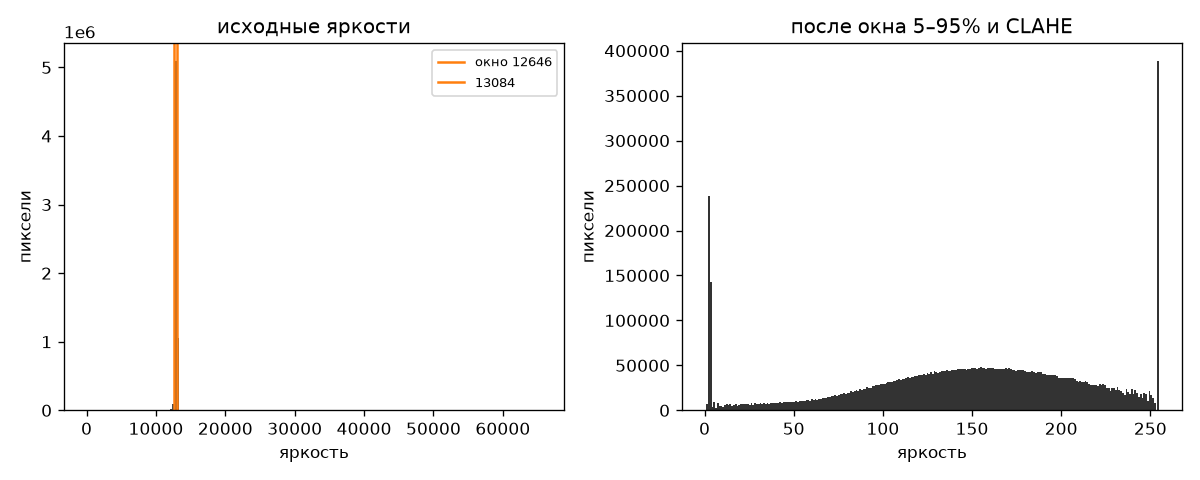
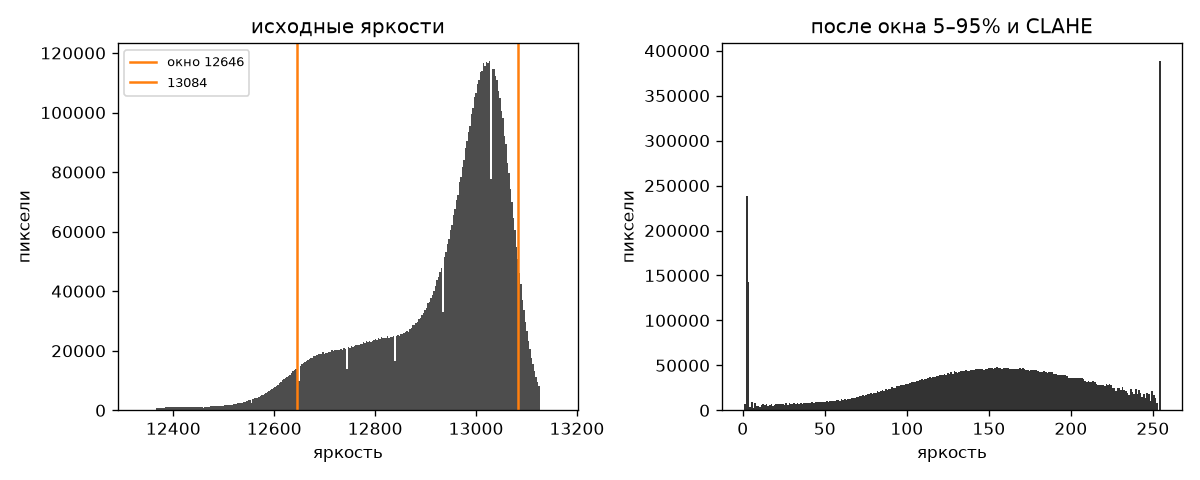
fix: show the real distribution in the lab 3 histogram
The left histogram of raw intensities was a single spike: 383 dead pixels
at 0 and 3 saturated ones at 65535 stretched the axis over the whole
uint16 range, while the data itself lies in 12 366-13 126. The bins and
the x axis are now limited to the wide 0.5-99.5% window, so the 5-95%
working window is visible on the plot.

diff --git a/Lab3/histogram.py b/Lab3/histogram.py
@@ -47,10 +47,17 @@ def main() -> None:
     cv2.imwrite(str(OUT / "weld_wide.jpg"), wide, [cv2.IMWRITE_JPEG_QUALITY, 92])
     cv2.imwrite(str(OUT / "weld.jpg"), clahe, [cv2.IMWRITE_JPEG_QUALITY, 92])
 
+    # Единичные мёртвые/засвеченные пиксели (0 и 65535) растягивают диапазон
+    # на весь uint16 и прячут настоящее распределение в одну полоску, поэтому
+    # границы графика берутся по широкому окну (0.5-99.5%), а не по min/max.
+    plot_low, plot_high = wide_low, wide_high
+    margin = 0.1 * (plot_high - plot_low)
+
     figure, axes = plt.subplots(1, 2, figsize=(10, 4))
-    axes[0].hist(pixels.ravel(), bins=256, color="0.3")
+    axes[0].hist(pixels.ravel(), bins=256, range=(plot_low, plot_high), color="0.3")
     axes[0].axvline(tight_low, color="C1", label=f"окно {tight_low:.0f}")
     axes[0].axvline(tight_high, color="C1", label=f"{tight_high:.0f}")
+    axes[0].set_xlim(plot_low - margin, plot_high + margin)
     axes[0].set_title("исходные яркости")
     axes[0].legend(fontsize=8)
     axes[1].hist(clahe.ravel(), bins=256, color="0.2")
